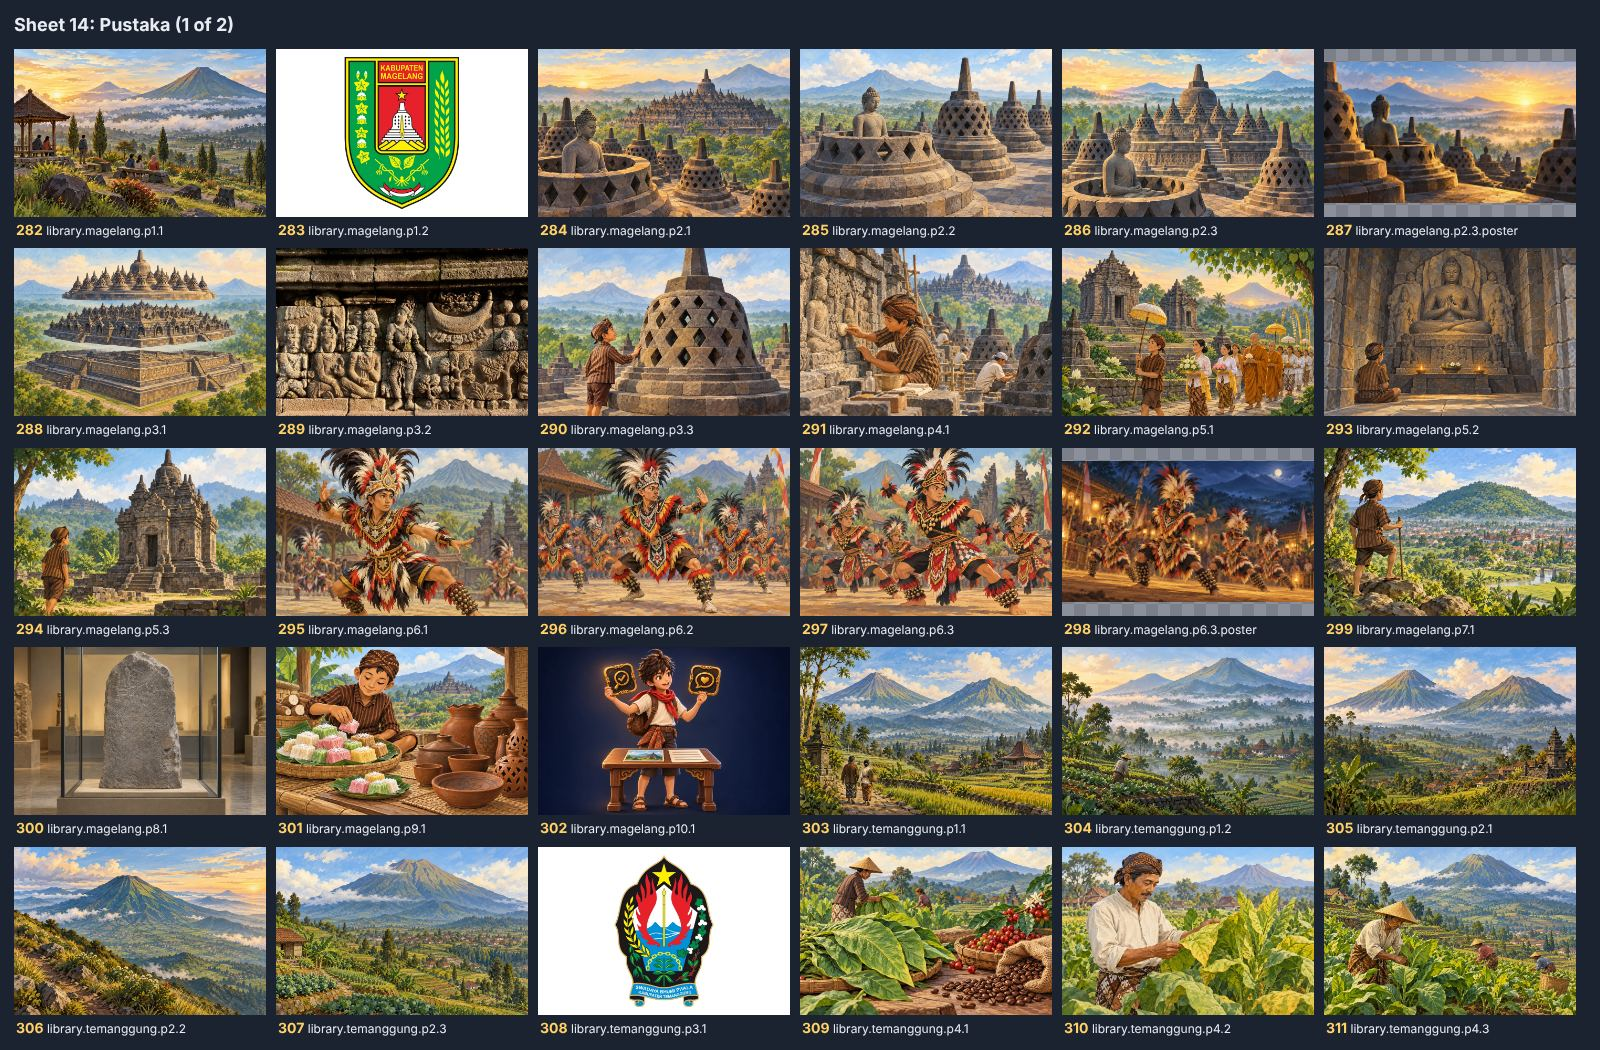
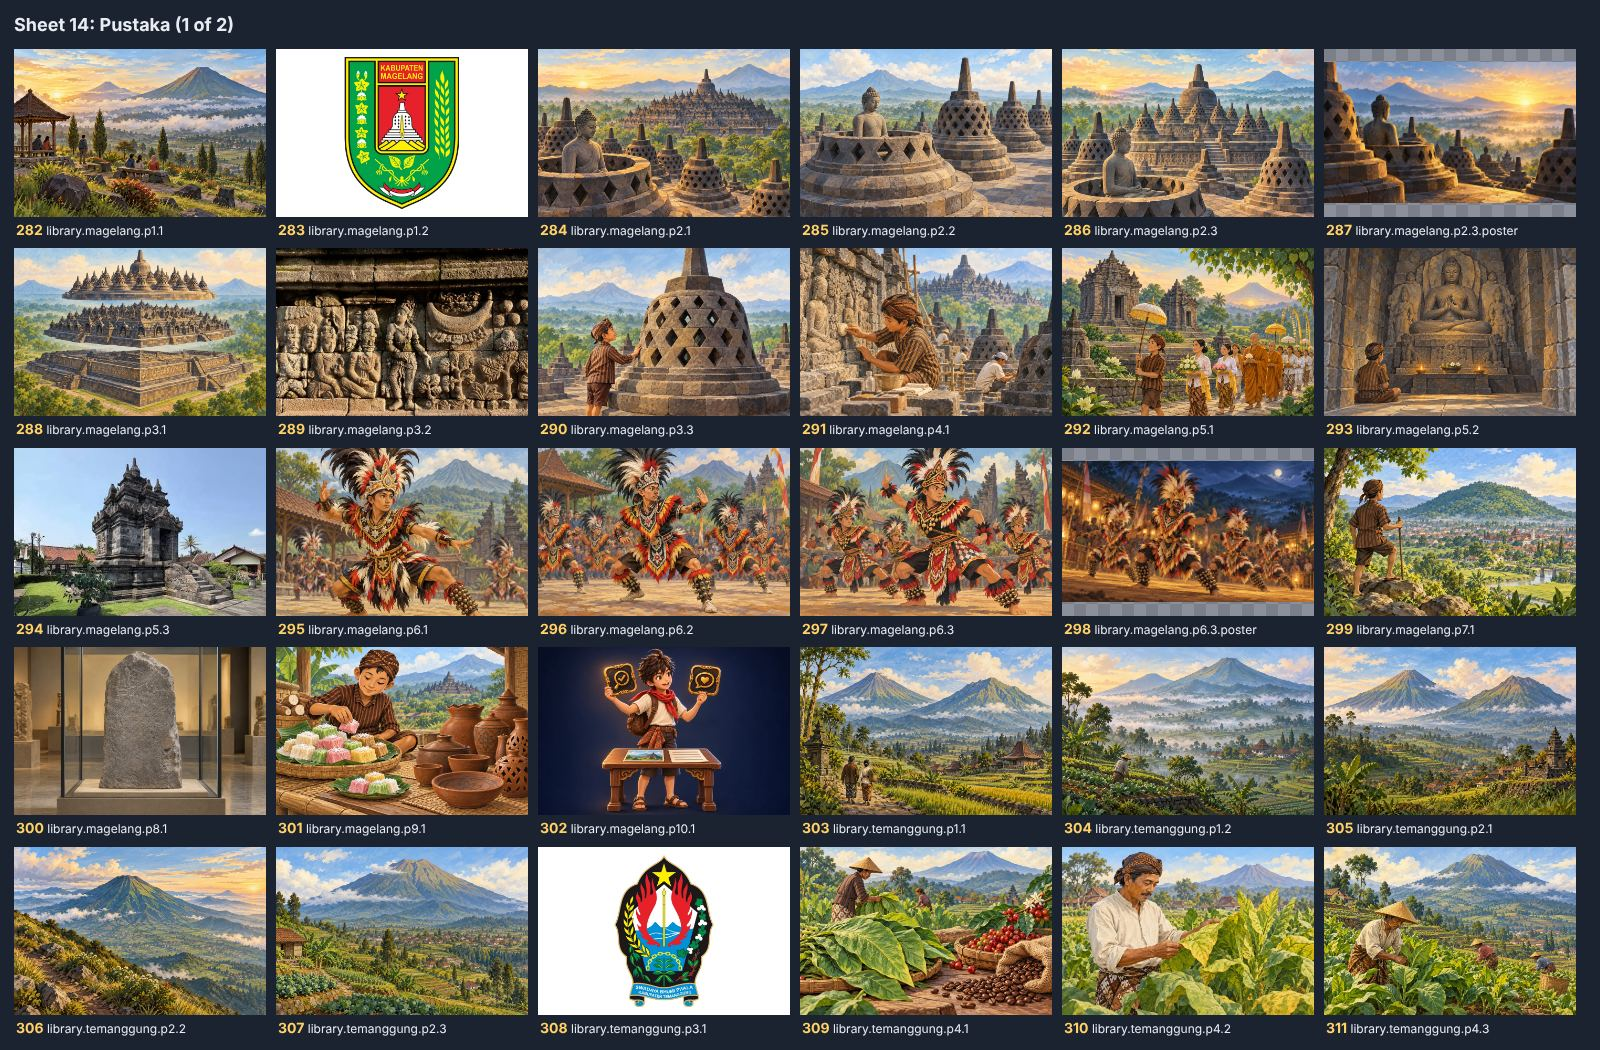
Row 294: a real Candi Pawon photo installed as the Pustaka picture; five Pawon photos kept as references

Changed region(s): [[0.0, 0.4267, 0.1875, 0.6095]]

diff --git a/docs/PROGRESS.md b/docs/PROGRESS.md
@@ -96,7 +96,8 @@ Owner request: `gelita-katalog/` was out of date; the pictures follow the game, 
 - [x] Photos of Situs Liyangan (312) from the researcher, 16 November 2026: five files `inbox/reference-Liyangan-*`; task `R-16` (the old picture showed Prambanan-like towers)
 - [x] Five Borobudur relief photos from the researcher (289), 16 November 2026: owner's choice, the colour gallery relief installed as it is as `library.magelang.p3.2` (credit and caption in `data.json`); the other four kept as references (`inbox/reference-Borobudur-relief-*`)
 - [x] Coats of arms of Kabupaten Magelang, Temanggung and Wonosobo (283, 308, 323) received 16 November 2026 from the researcher (licence and permission obtained): installed unchanged on a white 960 × 640 canvas as the Pustaka pictures of the pages that name them, with the page's caption and their own credit (new `credit` field of `data.json`, read by `CatalogImporter`); review rows `fixed`
-- [ ] **Pictures of real things that need a real reference** (session check, 16 November 2026; impressions until compared with photos): **294** Candi Pawon drawn as a tall tower with a stupa top, the real one is small and squat (licensed Pawon photos already in `inbox/`; not marked by the owner yet); **332, 333** Candi Arjuna group drawn as tall towers (photos needed); **334** the bundengan drawn as a bamboo xylophone, it is a woven, shelter-shaped instrument (photo needed); to confirm with photos: **295, 296** Topeng Ireng, **317** Kuda Lumping Temanggung, **313, 314** Candi Pringapus and its Nandi; from *First look by the AI*: **255** kendi or kendil, **256, 263** the two kuda kepang. Most of these Pustaka pictures are also painted, not 3D
+- [x] Five Candi Pawon photos from the researcher (294), 16 November 2026: the clean three-quarter garden view installed as it is as `library.magelang.p5.3` (caption and credit in `data.json`; the old picture was a painted tall tower); all five kept as references (`inbox/reference-Pawon-researcher-*`; no. 05 carries a third-party watermark, never install it). The Candi Arjuna group and the bundengan photos follow
+- [ ] **Pictures of real things that need a real reference** (session check, 16 November 2026; impressions until compared with photos): **332, 333** Candi Arjuna group drawn as tall towers (photos needed); **334** the bundengan drawn as a bamboo xylophone, it is a woven, shelter-shaped instrument (photo needed); to confirm with photos: **295, 296** Topeng Ireng, **317** Kuda Lumping Temanggung, **313, 314** Candi Pringapus and its Nandi; from *First look by the AI*: **255** kendi or kendil, **256, 263** the two kuda kepang. Most of these Pustaka pictures are also painted, not 3D
 - [x] `challenge.post.tmg-4-b` ("Uceng goreng di piring", Cari Objek Temanggung round 2, variant b) had no picture, and the importer skipped `challenge.post.*` keys. Owner, 16 November 2026: a new picture. Slot `challenge.post.*` (1280 × 720) added with tests; task `R-13`, prompt in document 39 (decision log *a slot for the round-2 post photo*)
 - [ ] **ChatGPT:** row `R-13`; the installing session moves it to `ai-studio/game-images/assets/tantangan/`, adds its `data.json` entry and a `REVIEW.md` row
 - [ ] `AssetChecklist` does not list round-2 post photos (found 16 November 2026); a missing one shows only as the general placeholder
@@ -166,3 +167,4 @@ Add a row (branch, owner / scope, status) when a session starts a branch; remove
 
 | Branch | Owner / scope | Status |
 |---|---|---|
+| `nty/vibrant-keller-s5qgo8` | Picture review: researcher's photos of Candi Pawon (294), then the Candi Arjuna group (332, 333) and the bundengan (334) | In progress |

diff --git a/ai-studio/game-images/REVIEW.md b/ai-studio/game-images/REVIEW.md
@@ -550,7 +550,7 @@ Rows 129 to 178, the 50 vector icons `icon.*.svg`. Owner, 15 November 2026: `dro
 | 291 | [`library.magelang.p4.1`](assets/pustaka/library.magelang.p4.1.webp) | Petugas membersihkan batu candi saat pemugaran Borobudur | Gambar Pustaka (Pustaka Kedu) | `fixed: caption` | Caption replaced on 15 November 2026 (`caption` in `data.json`): "Petugas membersihkan batu candi saat pemugaran Borobudur" |
 | 292 | [`library.magelang.p5.1`](assets/pustaka/library.magelang.p5.1.webp) | Iring-iringan Waisak di dekat Candi Mendut | Gambar Pustaka (Pustaka Kedu) | `fixed: caption` | Caption replaced on 15 November 2026 (`caption` in `data.json`): "Iring-iringan Waisak di dekat Candi Mendut" |
 | 293 | [`library.magelang.p5.2`](assets/pustaka/library.magelang.p5.2.webp) | Buddha's_statue_inside_candi_Mendut.JPG | Gambar Pustaka (Pustaka Kedu) | `redo: the Buddha of Candi Mendut sits with both feet down, not cross-legged (owner sent the reference photos, 16 November 2026)` | Checked against the photos on 16 November 2026: the Buddha sits cross-legged, the two flanking statues stand (they sit), two lions in front that the chamber does not have, a child worshipping. Task `R-12` of `../chatgpt-images/TASKS.md` |
-| 294 | [`library.magelang.p5.3`](assets/pustaka/library.magelang.p5.3.webp) | Candi_Pawon_6.jpg | Gambar Pustaka (Pustaka Kedu) |  |  |
+| 294 | [`library.magelang.p5.3`](assets/pustaka/library.magelang.p5.3.webp) | Candi_Pawon_6.jpg | Gambar Pustaka (Pustaka Kedu) | `fixed: a real photo of Candi Pawon from the researcher (licensed) installed as it is, 16 November 2026` | Caption "Candi Pawon, candi kecil di antara Mendut dan Borobudur", credit "Foto Candi Pawon (berizin, dari peneliti)" in `data.json`. The old picture was a painted tall tower with a stupa top, Borobudur behind and a child in front; the real temple is small and squat. |
 | 295 | [`library.magelang.p6.1`](assets/pustaka/library.magelang.p6.1.webp) | Topeng Ireng, Tarian Penuh Semangat | Gambar Pustaka (Pustaka Kedu) |  |  |
 | 296 | [`library.magelang.p6.2`](assets/pustaka/library.magelang.p6.2.webp) | Topeng_Ireng_(4).jpg | Gambar Pustaka (Pustaka Kedu) |  |  |
 | 297 | [`library.magelang.p6.3`](assets/pustaka/library.magelang.p6.3.webp) | youtube.com/watch?v=CicQwPmwCWQ | Not installed by the game |  | Fact: this Pustaka medium is a video; the importer skips its picture and installs only the cover (`.poster`) |

diff --git a/docs/perombakan-kelas5/CATATAN_IMPLEMENTASI.md b/docs/perombakan-kelas5/CATATAN_IMPLEMENTASI.md
@@ -756,4 +756,4 @@ A session looked at all 21 review sheets and wrote its questions into `ai-studio
 - **Pictures of real things that need a real reference**: listed in `docs/PROGRESS.md` (289, 312, 294, 332, 333, 334, and to confirm 295, 296, 317, 313, 314, 255, 256, 263). For 289 the Kemenag photos are already in `inbox/`; ChatGPT failed three times to copy a real relief for `M-K2`, so the owner decides between installing a real photo and a new prompt.
 - **`R-16`, Situs Liyangan (312).** The researcher's Liyangan photos arrived during the session; the owner sent all five as files (`inbox/reference-Liyangan-*`, the AVIF saved as JPEG); three are attached to the row. The old picture showed Prambanan-like towers; the new one shows the excavated village: walled terraces, a stone road, one small shrine, a yoni on a base, Sindoro behind. Five Borobudur relief photos also came as chat pictures only; the owner is asked to send them again as files before row 289 becomes a task.
 - **Row 289, Borobudur relief.** The owner sent five relief photos from the researcher (licensed) and chose, over a ChatGPT task, to install one as it is: the colour photo of a gallery relief, cropped to 3:2 and scaled from 902 × 600 to 960 × 640, as `library.magelang.p3.2` with the page's caption "Relief cerita di lorong Borobudur" and the credit "Foto relief Candi Borobudur (berizin, dari peneliti)". The old picture was an invented panel with a painted landscape inside. The other four photos stay in `inbox/` as references (also useful for `M-K2`).
-
+- **Row 294, Candi Pawon.** The researcher sent five Pawon photos (licensed, owner 16 November 2026). Like row 289, the Pustaka picture is documentary media, so a real photo is installed as it is rather than redrawn: the clean three-quarter view in its garden (no visitors, no sign, no watermark), cropped to 3:2 and scaled from 516 × 344 to 960 × 640, as `library.magelang.p5.3`, with the page's caption "Candi Pawon, candi kecil di antara Mendut dan Borobudur" and the credit "Foto Candi Pawon (berizin, dari peneliti)". The frontal photo (02) is the second choice if the owner prefers the doorway seen straight on. The old picture was a painted tall tower with a stupa top, Borobudur behind and a child in front. All five stay in `inbox/` as references; no. 05 carries a third-party watermark and is never installed.

diff --git a/docs/revisi-10-analitik/04_CATATAN_KEPUTUSAN.md b/docs/revisi-10-analitik/04_CATATAN_KEPUTUSAN.md
@@ -14,6 +14,7 @@ Catatan ini merekam keputusan selama revisi, dari yang terbaru. Keputusan untuk 
 - **Foto unggahan uceng (`R-13`).** Unggahan babak 2 Cari Objek Temanggung variasi b belum punya foto. Pengembang memilih foto baru (bukan potongan gambar Susun Gambar `tmg-1-h01`): uceng goreng di piring, tanpa laut dan tanpa sungai, supaya foto tidak membantu atau menyesatkan butir `tmg-4-b02`. Prompt di 39; pemasang katalog kini mengenal gambar unggahan. Teks butir tidak berubah.
 - **Peta Dieng (`R-14`).** Pengembang mengirim lima peta kawasan Dieng dan Wonosobo (lisensi didapat peneliti). Gambar Pustaka "Dieng, Tempat Para Dewa" dibuat ulang sebagai peta timbul tiga kabupaten (Banjarnegara, Wonosobo, Batang) dengan tujuh nama tempat; satu-satunya gambar isi game yang memuat tulisan, dibaca ulang kata per kata. Keterangan gambar kembali menjadi "Peta kawasan Dataran Tinggi Dieng".
 - **Lambang tiga kabupaten.** Peneliti mengirim lambang resmi Kabupaten Magelang, Temanggung, dan Wonosobo (berizin). Ketiganya dipasang utuh, tanpa diubah, di tiga halaman Pustaka yang menyebutnya, menggantikan lukisan AI yang menampilkan hal lain; keterangannya "Lambang Kabupaten …" dan kreditnya "Lambang resmi Pemerintah Kabupaten …", bukan kredit ilustrasi AI.
+- **Candi Pawon.** Peneliti mengirim lima foto Candi Pawon (berizin). Gambar Pustaka "Candi Pawon, candi kecil di antara Mendut dan Borobudur" yang menampilkan menara tinggi berpuncak stupa diganti satu foto asli apa adanya (tampak serong di tamannya), seperti relief Borobudur.
 - **Relief Borobudur.** Peneliti mengirim lima foto relief Borobudur (berizin). Pengembang memilih memasang satu foto asli apa adanya untuk gambar Pustaka "Relief cerita di lorong Borobudur", menggantikan relief rekaan; tidak digambar ulang, karena AI sudah tiga kali gagal menyalin relief asli.
 - **Situs Liyangan (`R-16`).** Peneliti mengirim foto Situs Liyangan (berizin). Gambar Pustaka "Jejak Mataram Kuno" yang menampilkan menara candi tinggi dibuat ulang sebagai kampung yang digali: teras bertalud batu, jalan batu, candi kecil, yoni, dan Gunung Sindoro.
 - **`R-11` disetujui pengembang** (pasangan `R-08` di buklet B).
